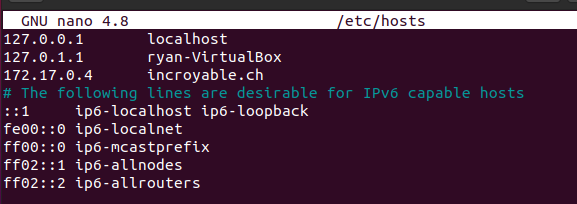
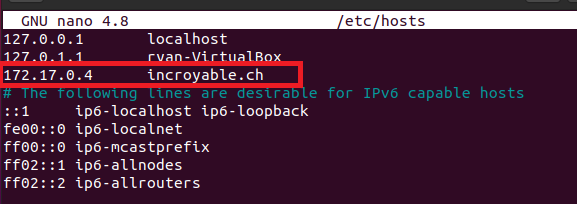
compléter readme

Changed region(s): [[0.0, 0.2941, 0.5303, 0.4412]]

diff --git a/README.md b/README.md
@@ -1,3 +1,11 @@
+---
+You have a GitHub repo with everything needed to build the Docker image for the container.
+You can do a demo, where you start from an "empty" Docker environment (no container running) and where you start 3 containers: static server, dynamic server and reverse proxy; in the demo, you prove that the routing is done correctly by the reverse proxy.
+You can explain and prove that the static and dynamic servers cannot be reached directly (reverse proxy is a single entry point in the infra).
+You are able to explain why the static configuration is fragile and needs to be improved.
+You have documented your configuration in your report.
+---
+
 # README
 
 ## **DockerFile**
@@ -15,9 +23,44 @@ Cette partie indique, dans l'ordre, ce que fait le dockerfile
 
 4) Active les sites 0001-* et 001-*
 
+Le site est accessible à l'adresse suivante : incroyable.ch
 
 
 
+## DNS
+
+Pour que la résolution du nom de domaine fonctionne, il faut ajouter l'ip du conteneur faisant tourner le reverse proxy avec le nom de domaine correspondant.
+
+![host](assets/host.PNG)
+
+
+
+Pour récupérer l'adresse IP de votre reverse proxy, vous pouvez effectuer :
+
+```
+docker ps
+docker inspect <id conteneur ou nom> | grep IPAddress>
+```
+
+![port](assets/port.PNG)
+
+![IP](assets/IP.PNG)
+
+
+
+
+
+
+
+## Exemple
+
+
+
+![apache](assets/apache.PNG)
+
+
+
+![express](assets/express.PNG)
 
 ## Sources annexes:
 
